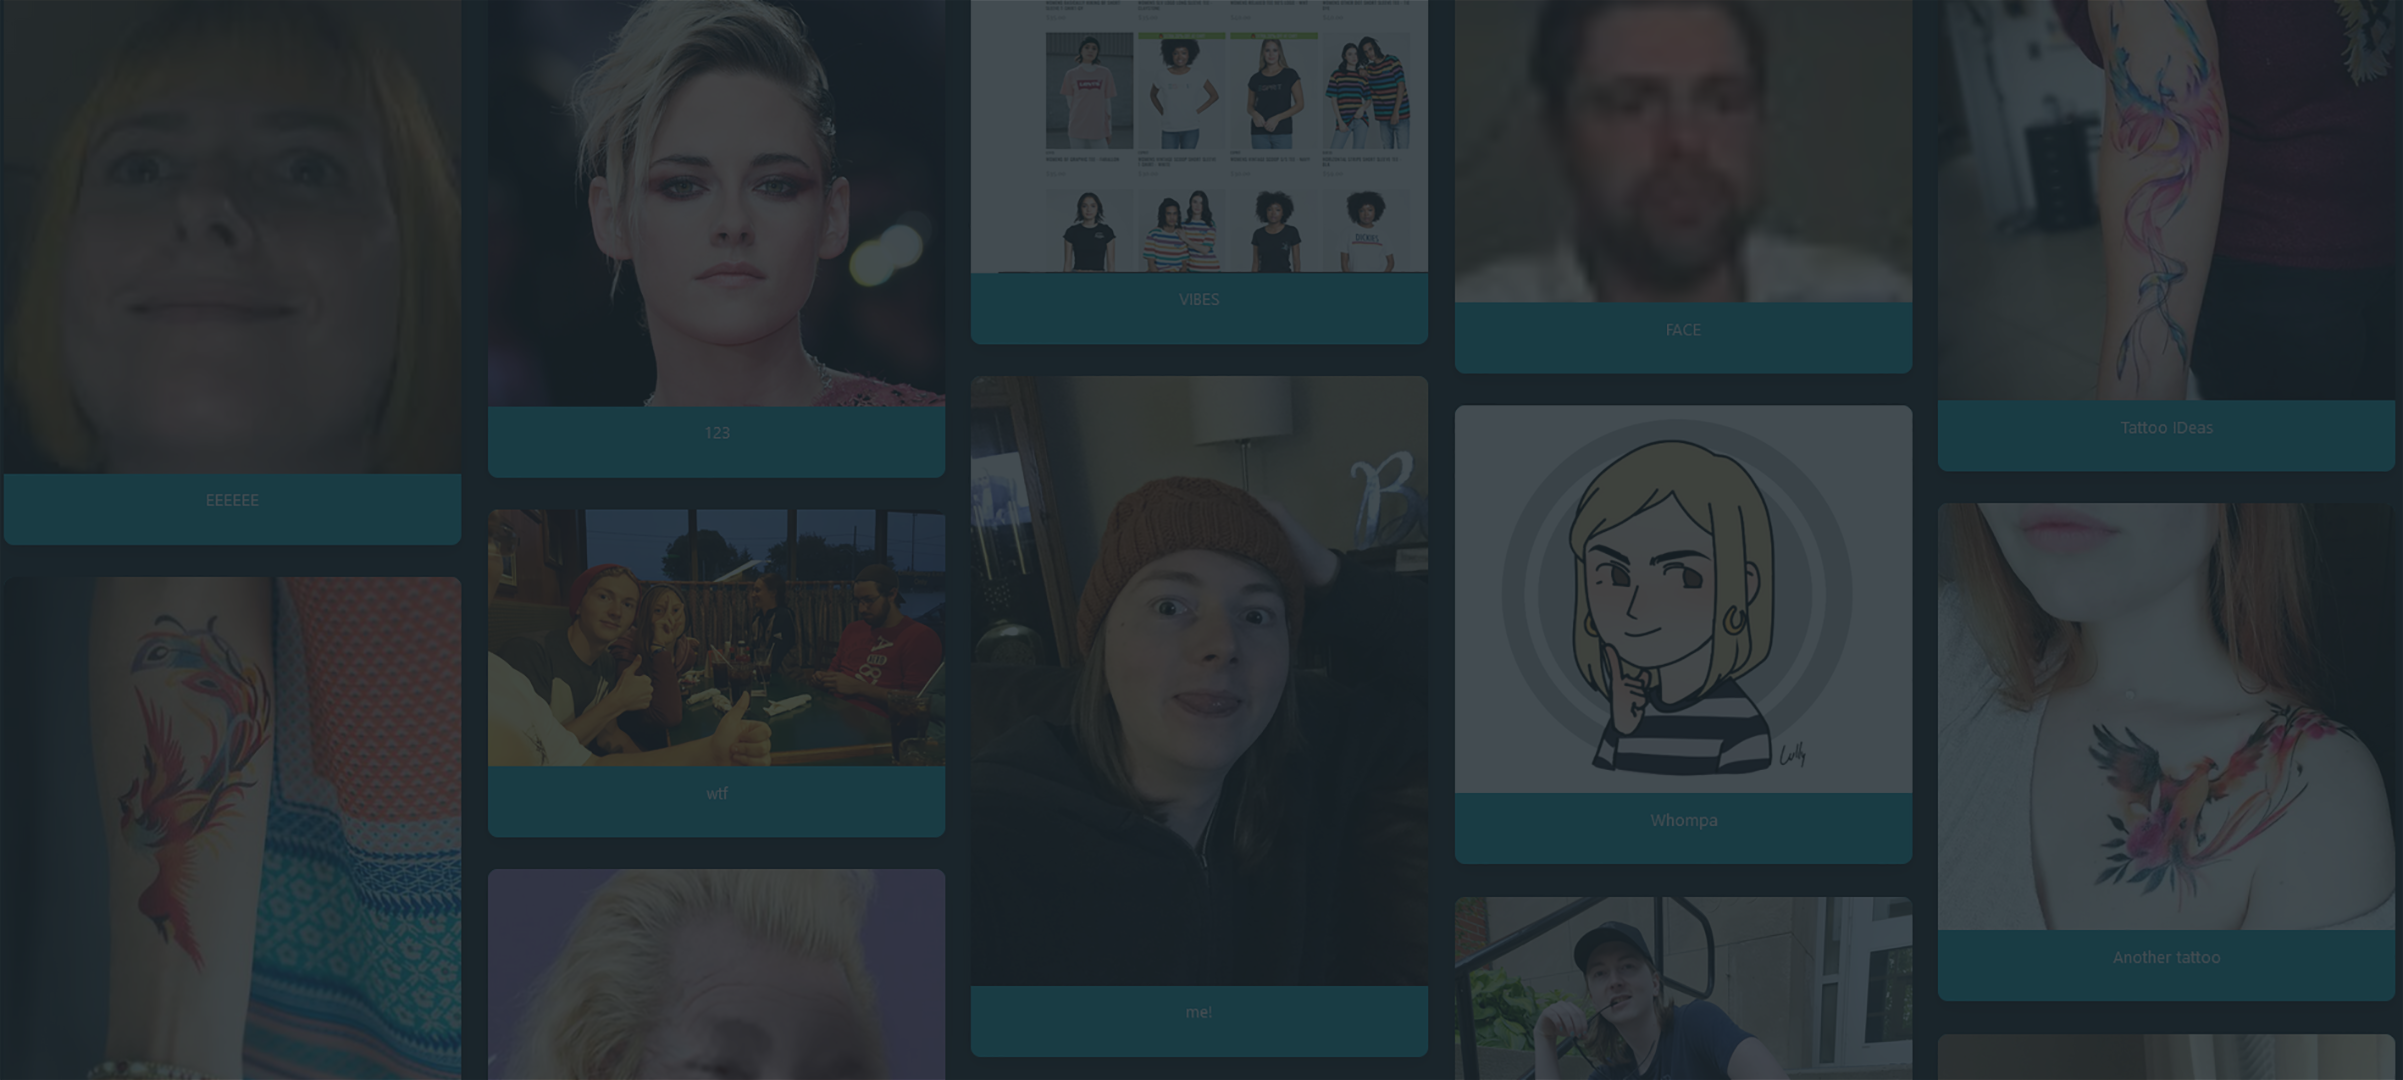
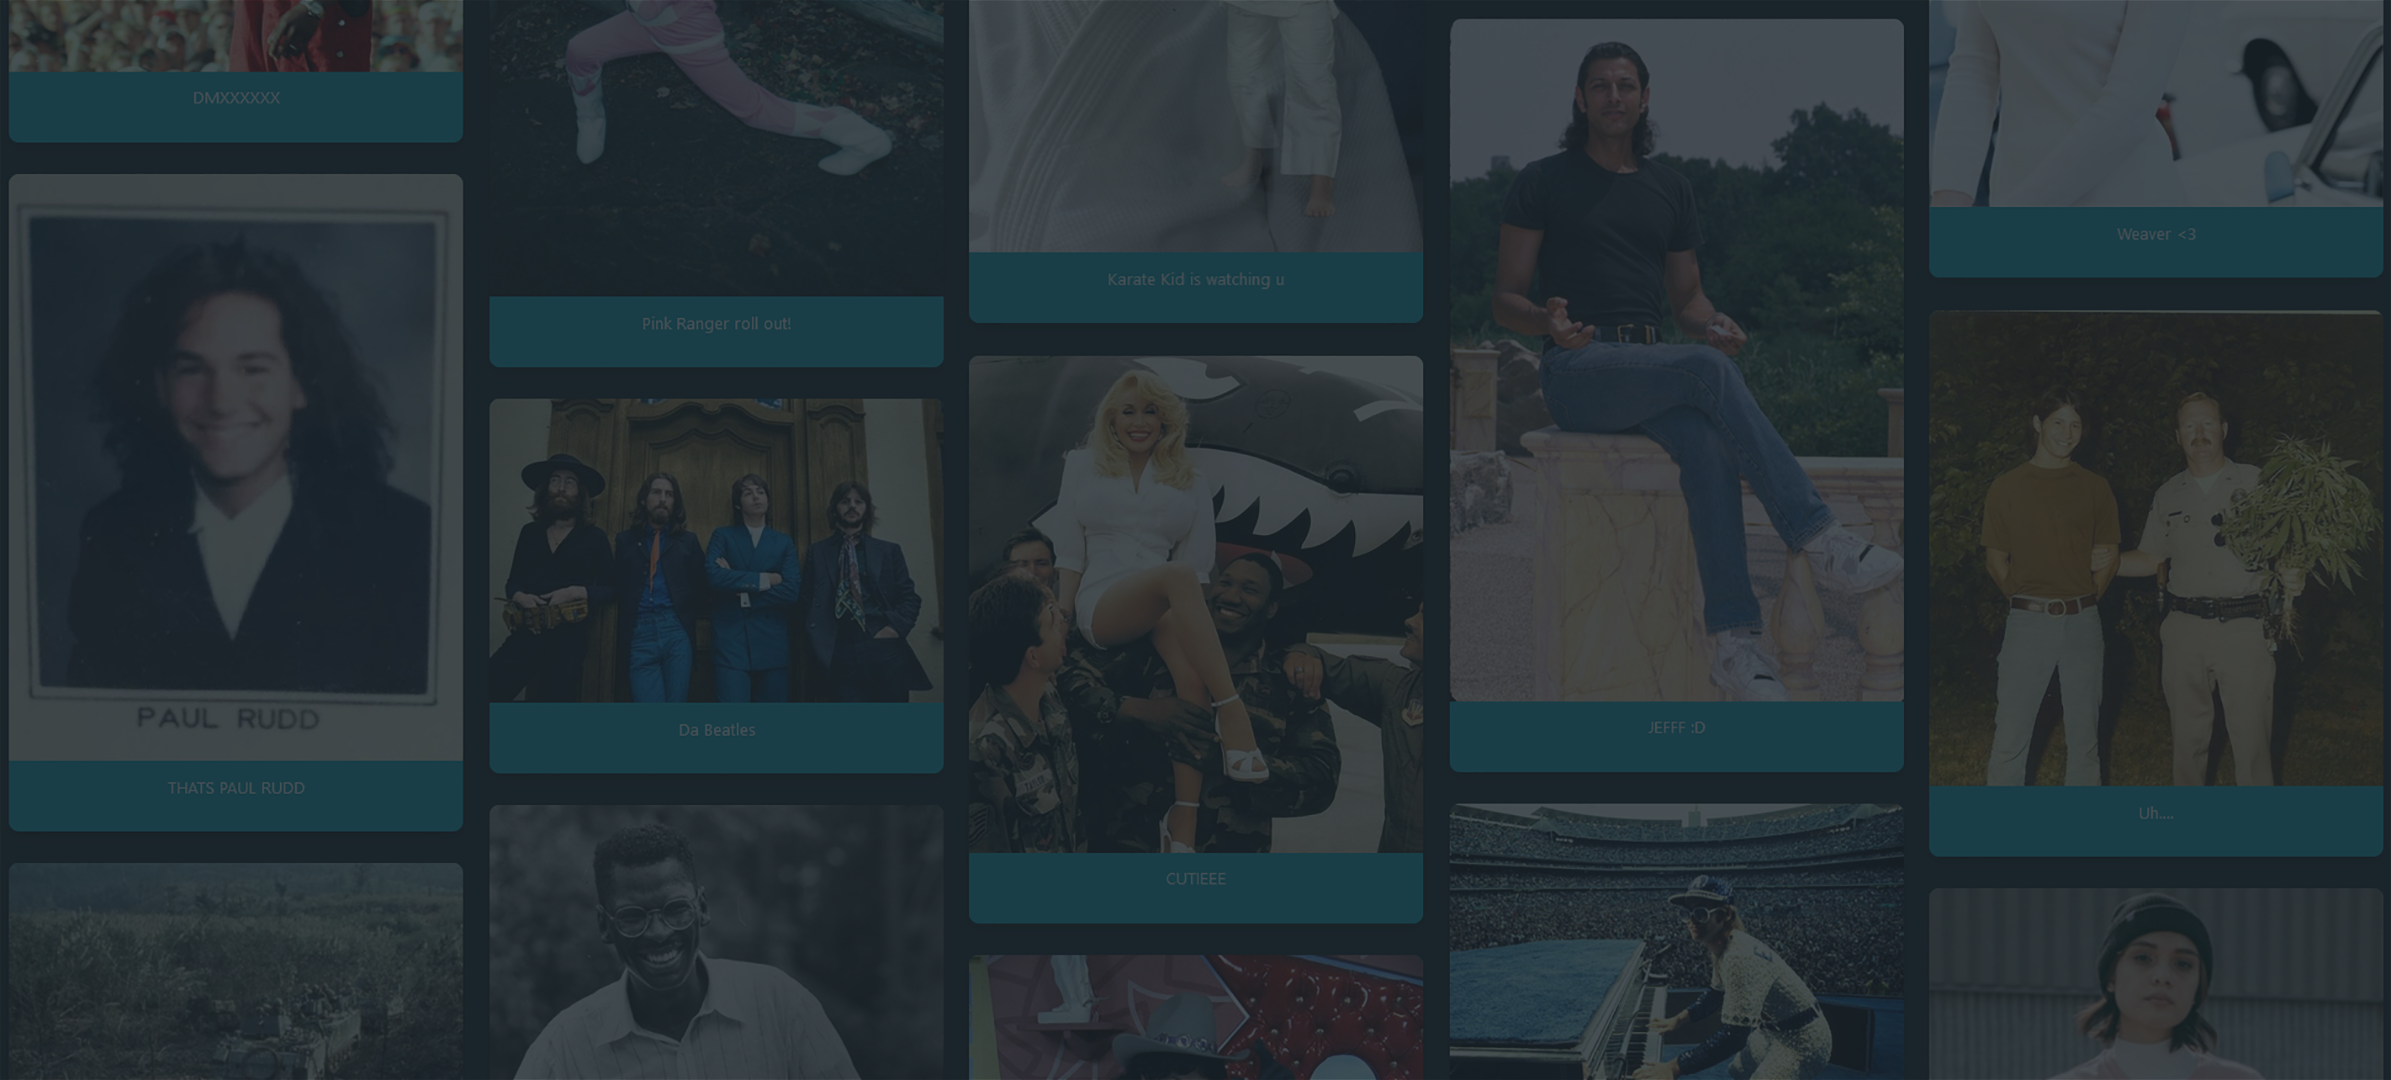
Background, Hover Zoom

diff --git a/Frontend/Post.html b/Frontend/Post.html
@@ -59,22 +59,13 @@
             </div>
         </nav>
 
-        <!--Below content code-->
-		<div class="container">
-			<div class="wrapper fadeInDown">
-				<div id="formContent">
-					<!-- Title -->
-					<h3>Posting an Image</h3>
-				</div>
-		    </div>
-        </div>
         <div class="container">
 			<div class="wrapper fadeInDown">
 				<div id="formContent" enctype="multipart/form-data">
 					<!-- Post Controls -->
 					<h3 class="fadeIn second">Upload your Image</h3>
 					<input type="file" id="inputImg" class="fadeIn second" name="inputImg" accept="image/*">
-					
+					<p style="padding-top: 8pt;"></p>
 					<h3 class="fadeIn third">Your Description</h3>
 					
 					<textarea id="inputDes" width="100%" name="inputDes" class="fadeIn third" rows="3" style="resize: none;"> </textarea>

diff --git a/Frontend/Login.css b/Frontend/Login.css
@@ -1,13 +1,18 @@
 /* BASIC */
 
 html {
+	height: 100%;
     background-color: #1b262c;
   }
   
   body {
     font-family: "Poppins", sans-serif;
-    height: 50vh;
+    height: 100%;
     background-color: #1b262c;
+	background-image: url('Images/backgroundtemplate.png');
+	background-repeat: no-repeat;
+	background-attachment: fixed; 
+	background-size: contain;
   }
   
   a {

diff --git a/Frontend/Profile.css b/Frontend/Profile.css
@@ -1,13 +1,18 @@
 /* BASIC */
 
 html {
+	height: 100%;
     background-color: #1b262c;
   }
   
   body {
     font-family: "Poppins", sans-serif;
-    height: 50vh;
+    height: 100%;
     background-color: #1b262c;
+	background-image: url('Images/backgroundtemplate.png');
+	background-repeat: no-repeat;
+	background-attachment: fixed; 
+	background-size: contain;
   }
   
   a {

diff --git a/Frontend/Home.css b/Frontend/Home.css
@@ -14,6 +14,11 @@ div.polaroid {
     margin-bottom: 25px;
     border-radius: 8px;
 	cursor: pointer;
+	transition: transform .2s; /* Animation */
+}
+
+.polaroid:hover {
+  transform: scale(1.05); /* (150% zoom - Note: if the zoom is too large, it will go outside of the viewport) */
 }
 
 img {

diff --git a/Frontend/Login.html b/Frontend/Login.html
@@ -114,7 +114,7 @@
         </nav>
 
         <!--Below content code-->
-        <div class="container" style="background-color: #1b262c;">
+        <div class="container">
             <div class="row">
                 <div class="col">
                     <div class="wrapper fadeInDown">

diff --git a/Frontend/Profile.html b/Frontend/Profile.html
@@ -128,7 +128,7 @@
         </nav>
 
         <!--Below content code-->
-        <div class="container" style="background-color: #1b262c;">
+        <div class="container">
             <div class="row">
                 <div class="col">
                     <div class="wrapper fadeInDown">

diff --git a/Frontend/Post.css b/Frontend/Post.css
@@ -12,7 +12,7 @@ html {
 	background-image: url('Images/backgroundtemplate.png');
 	background-repeat: no-repeat;
 	background-attachment: fixed; 
-	background-size: cover;
+	background-size: contain;
   }
   
   a {
